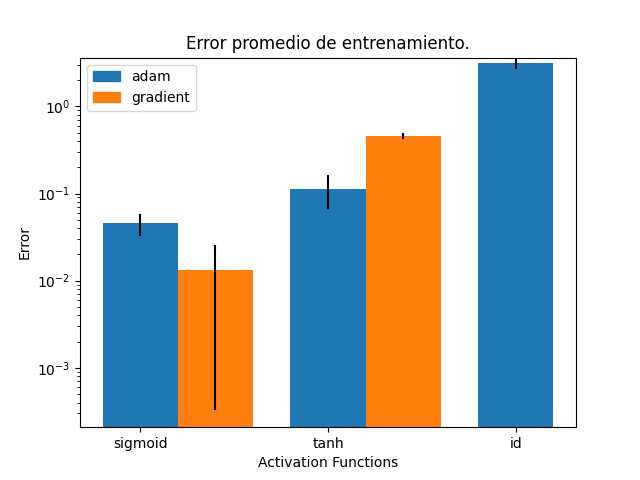
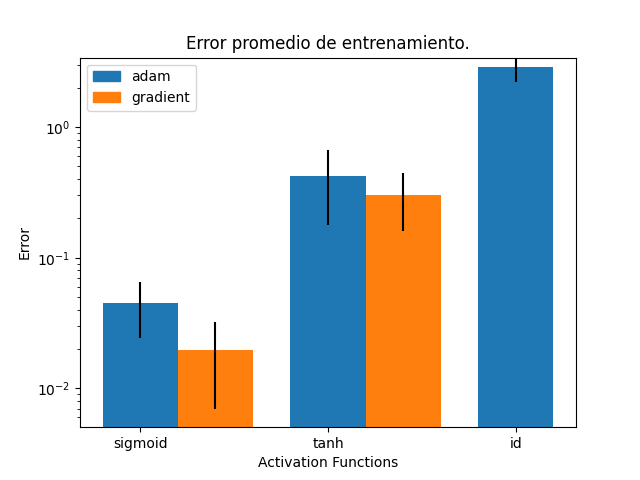
fix: more iterations

diff --git a/tp3/ej2/ej2.py b/tp3/ej2/ej2.py
@@ -86,7 +86,7 @@ if __name__ == '__main__':
         for update in update_methods:
             g_err_counter = []
             t_err_counter = []
-            for i in range(2):
+            for i in range(10):
                 if activation == "id" and update == "gradient_descent":
                     break
                 if rescale:
